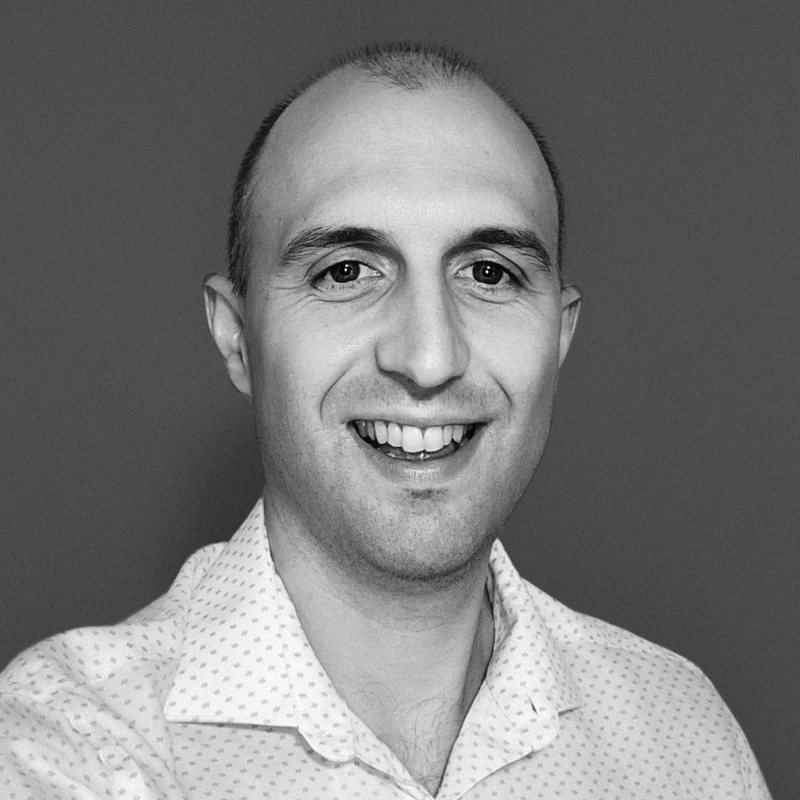
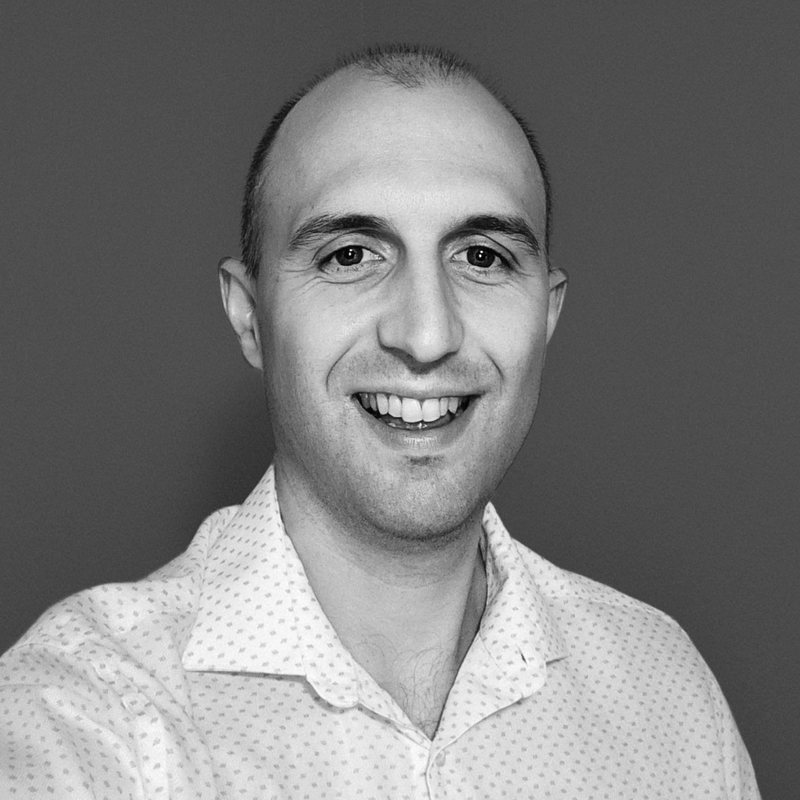
Headshot: loosen the circle crop slightly

diff --git a/index.html b/index.html
@@ -146,7 +146,7 @@
           </div>
         </div>
         <figure class="hero-portrait">
-          <img src="img/steve-jones.jpg?v=202610030035" width="800" height="800" alt="Portrait of Steve Jones" fetchpriority="high">
+          <img src="img/steve-jones.jpg?v=202610030038" width="800" height="800" alt="Portrait of Steve Jones" fetchpriority="high">
         </figure>
       </div>
       <div class="panorama" role="img" aria-label="Panoramic sunset over the ocean and coastal mountains">
